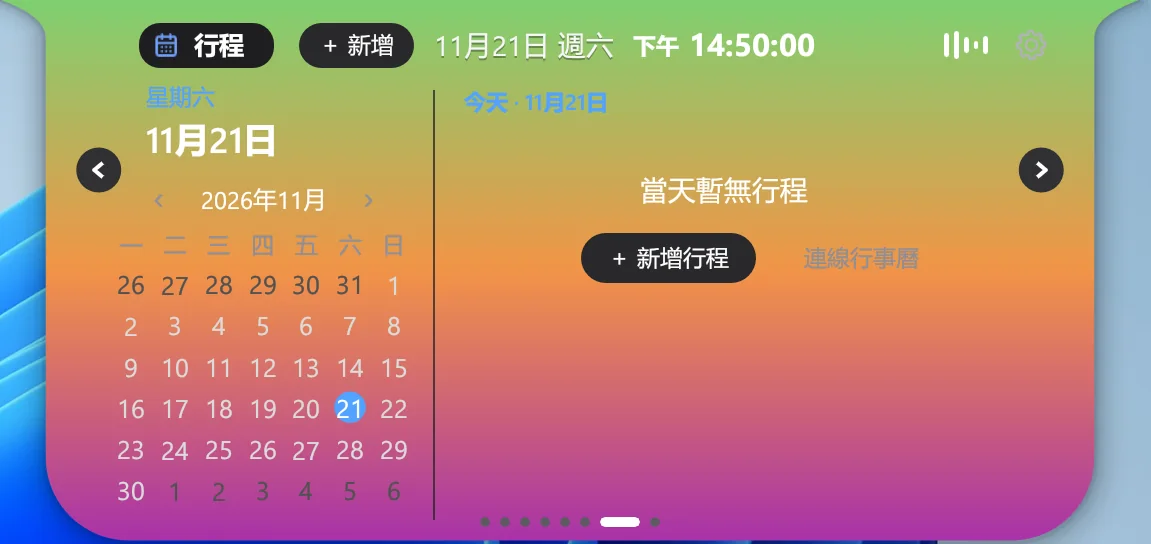
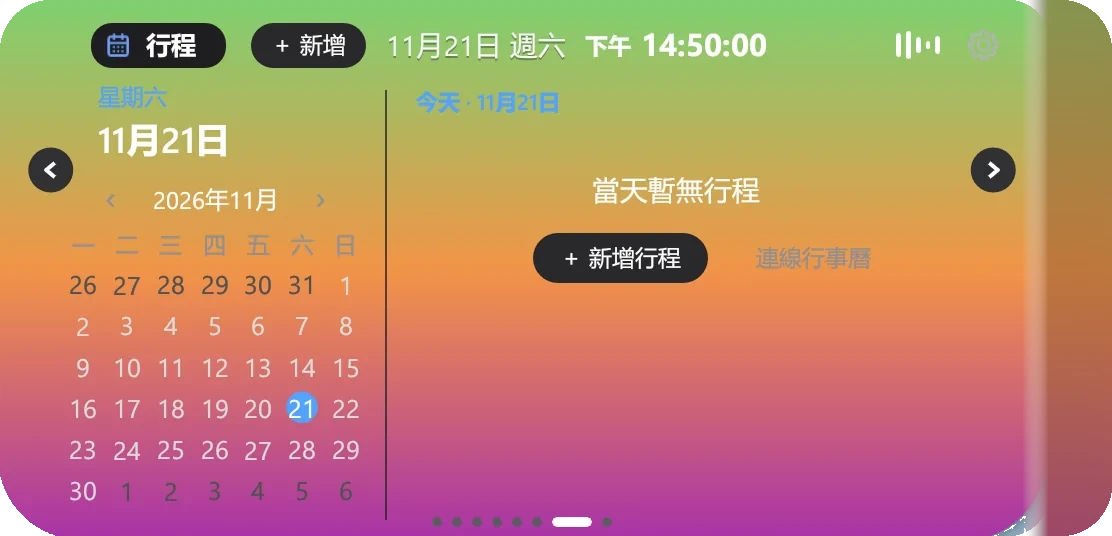
fix: 展示圖通知壓上畫面並清桌布；瀏覽器 YouTube 上島

diff --git a/docs/index.html b/docs/index.html
@@ -259,10 +259,7 @@ section{scroll-margin-top:104px}
 .visual-cap{margin-top:18px;font-size:10.5px;letter-spacing:.1em;color:#999ca6;text-align:right}
 
 /* ===== 展開畫面幻燈片 ===== */
-.island-showcase{
-  margin-top:52px;display:grid;grid-template-columns:minmax(0,1fr) 92px;
-  gap:22px;align-items:center;
-}
+.island-showcase{margin-top:52px}
 .island-stage{
   position:relative;min-width:0;padding:16px 14px;border-radius:30px;
   background:linear-gradient(180deg,rgba(12,20,34,.92),rgba(7,11,18,.96));
@@ -277,8 +274,9 @@ section{scroll-margin-top:104px}
 }
 .island-viewport{position:relative;overflow:hidden;border-radius:20px;background:#05080e;z-index:1}
 .island-track{display:flex;transition:transform .52s cubic-bezier(.22,.61,.36,1)}
-.island-slide{position:relative;flex:0 0 100%;min-width:100%;height:440px;margin:0}
-.island-slide img{position:absolute;inset:0;width:100%;height:100%;object-fit:contain;border-radius:18px;display:block;user-select:none;-webkit-user-drag:none}
+.island-slide{position:relative;flex:0 0 100%;min-width:100%;height:440px;margin:0;display:flex;align-items:center;justify-content:center}
+.island-frame{position:relative;width:min(100%,calc(440px * var(--ar)));aspect-ratio:var(--ar);max-height:100%}
+.island-frame>img{width:100%;height:100%;object-fit:contain;border-radius:18px;display:block;user-select:none;-webkit-user-drag:none}
 .island-stage:focus-visible{outline:2px solid var(--accent);outline-offset:3px}
 .island-dots{position:relative;z-index:2;display:flex;justify-content:center;gap:7px;margin-top:12px;margin-bottom:14px}
 .island-dots button{
@@ -286,17 +284,29 @@ section{scroll-margin-top:104px}
   background:rgba(185,203,228,.28);transition:width .25s,background .25s;
 }
 .island-dots button[aria-current="true"]{width:24px;border-radius:99px;background:var(--accent)}
-.island-rail{display:flex;flex-direction:column;gap:13px;align-items:center;justify-content:center}
-.rail-item{position:relative;width:48px;height:48px;border-radius:50%;display:grid;place-items:center}
-.rail-item>img{width:48px;height:48px;border-radius:50%;object-fit:cover;display:block;box-shadow:0 8px 20px -10px rgba(0,0,0,.8)}
-.rail-item svg{width:48px;height:48px;border-radius:50%;display:block}
-.rail-badge{
-  position:absolute;right:-6px;top:-6px;min-width:20px;height:20px;padding:0 5px;
-  border-radius:99px;background:#ff3b30;color:#fff;border:1.5px solid #f4f7fb;
-  font:800 10px/17px "Noto Sans TC",system-ui,sans-serif;text-align:center;
+.slide-rail{
+  position:absolute;z-index:3;right:clamp(6px,.8vw,8px);top:50%;
+  transform:translateY(-50%);display:flex;flex-direction:column;
+  gap:clamp(6px,1vw,13px);pointer-events:none;
+}
+.slide-rail .rail-item{
+  position:relative;width:clamp(18px,4.8vw,40px);height:clamp(18px,4.8vw,40px);
+  border-radius:50%;display:grid;place-items:center;flex:none;
+}
+.slide-rail .rail-item>img,.slide-rail .rail-item>svg{
+  width:100%;height:100%;border-radius:50%;object-fit:cover;display:block;
+  box-shadow:0 8px 20px -10px rgba(0,0,0,.8);
+}
+.slide-rail .rail-bell{background:linear-gradient(135deg,#ff7a59,#ef3b46);box-shadow:0 8px 20px -10px rgba(0,0,0,.8)}
+.slide-rail .rail-bell svg{fill:#fff;background:none;box-shadow:none}
+.slide-rail .rail-badge{
+  position:absolute;right:-4px;top:-4px;min-width:clamp(14px,1.9vw,18px);height:clamp(14px,1.9vw,18px);
+  padding:0 4px;border-radius:99px;background:#ff3b30;color:#fff;border:1.5px solid #f4f7fb;
+  font:800 clamp(7px,1vw,9px)/1 "Noto Sans TC",system-ui,sans-serif;
+  display:grid;place-items:center;
   box-shadow:0 3px 8px rgba(255,59,48,.35);
 }
-.rail-item.pop{animation:railPop .5s both;animation-delay:calc(var(--i) * 55ms)}
+.slide-rail .rail-item.pop{animation:railPop .5s both;animation-delay:calc(var(--i) * 55ms)}
 @keyframes railPop{
   0%{transform:scale(.72) translateY(7px);opacity:0}
   62%{transform:scale(1.08) translateY(0);opacity:1}
@@ -428,13 +438,11 @@ footer{margin-top:112px;padding:44px 0 64px;border-top:1px solid rgba(30,32,38,.
   .interface{padding-top:88px}
   .visual-mini{position:relative;box-shadow:var(--shadow-soft);transform:none;width:auto}
   .interface-visual{padding-bottom:0}
-  .island-showcase{grid-template-columns:1fr;margin-top:32px;gap:14px}
+  .island-showcase{margin-top:32px}
   .island-stage{padding:11px 9px;border-radius:22px}
   .island-slide{height:204px}
+  .island-frame>img{border-radius:14px}
   .island-dots{margin-top:9px}
-  .island-rail{flex-direction:row;gap:10px}
-  .rail-item,.rail-item>img,.rail-item svg{width:40px;height:40px}
-  .rail-badge{right:-4px;top:-4px;min-width:18px;height:18px;font-size:9px;line-height:15px}
   .mini-row{display:grid;grid-template-columns:minmax(0,1fr) minmax(0,1fr);gap:9px;margin-top:9px;align-items:start}
   .visual-mini{left:auto;right:auto;top:auto;bottom:auto;width:auto;min-width:0}
   .visual-mini img{width:100%;height:auto}
@@ -782,14 +790,88 @@ footer{border-top-color:rgba(125,211,252,.12)}
       <div class="island-stage" id="islandStage" tabindex="0" role="region" aria-roledescription="carousel" aria-label="鬼島展開畫面，左右滑動切換">
         <div class="island-viewport">
           <div class="island-track" id="islandTrack">
-            <figure class="island-slide" data-counts="50,32,18,10"><img src="images/showcase/island-weather.webp" alt="鬼島展開天氣：台北 19 度、體感、濕度、風速與七日預報" loading="eager" decoding="async"></figure>
-            <figure class="island-slide" data-counts="42,28,16,12"><img src="images/showcase/island-music.webp" alt="鬼島展開音樂：GIRL LIKE ME、播放進度與原文譯文歌詞" loading="eager" decoding="async"></figure>
-            <figure class="island-slide" data-counts="38,25,14,10"><img src="images/showcase/island-lyrics.webp" alt="鬼島島上歌詞：單行原文與右側譯文" loading="eager" decoding="async"></figure>
-            <figure class="island-slide" data-counts="35,22,13,11"><img src="images/showcase/island-focus.webp" alt="鬼島番茄專注：05:00 休息、專注與休息按鈕" loading="eager" decoding="async"></figure>
-            <figure class="island-slide" data-counts="48,30,17,10"><img src="images/showcase/island-clipboard.webp" alt="鬼島置物架與剪貼簿：複製的文字會出現在這裡" loading="eager" decoding="async"></figure>
-            <figure class="island-slide" data-counts="40,26,15,12"><img src="images/showcase/island-todo.webp" alt="鬼島待辦清單：0/0 已完成與今天還沒有安排" loading="eager" decoding="async"></figure>
-            <figure class="island-slide" data-counts="44,29,16,13"><img src="images/showcase/island-calendar.webp" alt="鬼島行程：2026 年 11 月月曆與當天暫無行程" loading="eager" decoding="async"></figure>
-            <figure class="island-slide" data-counts="30,22,13,11"><img src="images/showcase/island-games.webp" alt="鬼島遊戲庫：Riot Client、英雄聯盟、聯盟戰棋與 VALORANT 捷徑，以及 Steam 已安裝遊戲" loading="eager" decoding="async"></figure>
+            <figure class="island-slide" data-counts="50,32,18,10">
+              <div class="island-frame" style="--ar:1.9354">
+                <img src="images/showcase/island-weather.webp" alt="鬼島展開天氣：台北 19 度、體感、濕度、風速與七日預報" loading="eager" decoding="async">
+                <div class="slide-rail" aria-hidden="true">
+                  <div class="rail-item" style="--i:0"><img src="images/showcase/notif-gmail.png" alt=""><span class="rail-badge">50</span></div>
+                  <div class="rail-item" style="--i:1"><img src="images/showcase/notif-line.png" alt=""><span class="rail-badge">32</span></div>
+                  <div class="rail-item" style="--i:2"><img src="images/showcase/notif-phone.png" alt=""><span class="rail-badge">18</span></div>
+                  <div class="rail-item rail-bell" style="--i:3"><svg viewBox="0 0 48 48"><path d="M24 12c-5 0-8.2 3.8-8.2 9v5.2L13 31.5h22l-2.8-5.3V21c0-5.2-3.2-9-8.2-9Zm0 23c2.2 0 3.8-1.4 4.2-3.5h-8.4c.4 2.1 2 3.5 4.2 3.5Z"/></svg><span class="rail-badge">10</span></div>
+                </div>
+              </div>
+            </figure>
+            <figure class="island-slide" data-counts="42,28,16,12">
+              <div class="island-frame" style="--ar:3.2647">
+                <img src="images/showcase/island-music.webp" alt="鬼島展開音樂：GIRL LIKE ME、播放進度與原文譯文歌詞" loading="eager" decoding="async">
+                <div class="slide-rail" aria-hidden="true">
+                  <div class="rail-item" style="--i:0"><img src="images/showcase/notif-gmail.png" alt=""><span class="rail-badge">42</span></div>
+                  <div class="rail-item" style="--i:1"><img src="images/showcase/notif-line.png" alt=""><span class="rail-badge">28</span></div>
+                  <div class="rail-item" style="--i:2"><img src="images/showcase/notif-phone.png" alt=""><span class="rail-badge">16</span></div>
+                  <div class="rail-item rail-bell" style="--i:3"><svg viewBox="0 0 48 48"><path d="M24 12c-5 0-8.2 3.8-8.2 9v5.2L13 31.5h22l-2.8-5.3V21c0-5.2-3.2-9-8.2-9Zm0 23c2.2 0 3.8-1.4 4.2-3.5h-8.4c.4 2.1 2 3.5 4.2 3.5Z"/></svg><span class="rail-badge">12</span></div>
+                </div>
+              </div>
+            </figure>
+            <figure class="island-slide" data-counts="38,25,14,10">
+              <div class="island-frame" style="--ar:13.7941">
+                <img src="images/showcase/island-lyrics.webp" alt="鬼島島上歌詞：單行原文與右側譯文" loading="eager" decoding="async">
+              </div>
+            </figure>
+            <figure class="island-slide" data-counts="35,22,13,11">
+              <div class="island-frame" style="--ar:3.2684">
+                <img src="images/showcase/island-focus.webp" alt="鬼島番茄專注：05:00 休息、專注與休息按鈕" loading="eager" decoding="async">
+                <div class="slide-rail" aria-hidden="true">
+                  <div class="rail-item" style="--i:0"><img src="images/showcase/notif-gmail.png" alt=""><span class="rail-badge">35</span></div>
+                  <div class="rail-item" style="--i:1"><img src="images/showcase/notif-line.png" alt=""><span class="rail-badge">22</span></div>
+                  <div class="rail-item" style="--i:2"><img src="images/showcase/notif-phone.png" alt=""><span class="rail-badge">13</span></div>
+                  <div class="rail-item rail-bell" style="--i:3"><svg viewBox="0 0 48 48"><path d="M24 12c-5 0-8.2 3.8-8.2 9v5.2L13 31.5h22l-2.8-5.3V21c0-5.2-3.2-9-8.2-9Zm0 23c2.2 0 3.8-1.4 4.2-3.5h-8.4c.4 2.1 2 3.5 4.2 3.5Z"/></svg><span class="rail-badge">11</span></div>
+                </div>
+              </div>
+            </figure>
+            <figure class="island-slide" data-counts="48,30,17,10">
+              <div class="island-frame" style="--ar:3.2274">
+                <img src="images/showcase/island-clipboard.webp" alt="鬼島置物架與剪貼簿：複製的文字會出現在這裡" loading="eager" decoding="async">
+                <div class="slide-rail" aria-hidden="true">
+                  <div class="rail-item" style="--i:0"><img src="images/showcase/notif-gmail.png" alt=""><span class="rail-badge">48</span></div>
+                  <div class="rail-item" style="--i:1"><img src="images/showcase/notif-line.png" alt=""><span class="rail-badge">30</span></div>
+                  <div class="rail-item" style="--i:2"><img src="images/showcase/notif-phone.png" alt=""><span class="rail-badge">17</span></div>
+                  <div class="rail-item rail-bell" style="--i:3"><svg viewBox="0 0 48 48"><path d="M24 12c-5 0-8.2 3.8-8.2 9v5.2L13 31.5h22l-2.8-5.3V21c0-5.2-3.2-9-8.2-9Zm0 23c2.2 0 3.8-1.4 4.2-3.5h-8.4c.4 2.1 2 3.5 4.2 3.5Z"/></svg><span class="rail-badge">10</span></div>
+                </div>
+              </div>
+            </figure>
+            <figure class="island-slide" data-counts="40,26,15,12">
+              <div class="island-frame" style="--ar:3.2116">
+                <img src="images/showcase/island-todo.webp" alt="鬼島待辦清單：0/0 已完成與今天還沒有安排" loading="eager" decoding="async">
+                <div class="slide-rail" aria-hidden="true">
+                  <div class="rail-item" style="--i:0"><img src="images/showcase/notif-gmail.png" alt=""><span class="rail-badge">40</span></div>
+                  <div class="rail-item" style="--i:1"><img src="images/showcase/notif-line.png" alt=""><span class="rail-badge">26</span></div>
+                  <div class="rail-item" style="--i:2"><img src="images/showcase/notif-phone.png" alt=""><span class="rail-badge">15</span></div>
+                  <div class="rail-item rail-bell" style="--i:3"><svg viewBox="0 0 48 48"><path d="M24 12c-5 0-8.2 3.8-8.2 9v5.2L13 31.5h22l-2.8-5.3V21c0-5.2-3.2-9-8.2-9Zm0 23c2.2 0 3.8-1.4 4.2-3.5h-8.4c.4 2.1 2 3.5 4.2 3.5Z"/></svg><span class="rail-badge">12</span></div>
+                </div>
+              </div>
+            </figure>
+            <figure class="island-slide" data-counts="44,29,16,13">
+              <div class="island-frame" style="--ar:2.0746">
+                <img src="images/showcase/island-calendar.webp" alt="鬼島行程：2026 年 11 月月曆與當天暫無行程" loading="eager" decoding="async">
+                <div class="slide-rail" aria-hidden="true">
+                  <div class="rail-item" style="--i:0"><img src="images/showcase/notif-gmail.png" alt=""><span class="rail-badge">44</span></div>
+                  <div class="rail-item" style="--i:1"><img src="images/showcase/notif-line.png" alt=""><span class="rail-badge">29</span></div>
+                  <div class="rail-item" style="--i:2"><img src="images/showcase/notif-phone.png" alt=""><span class="rail-badge">16</span></div>
+                  <div class="rail-item rail-bell" style="--i:3"><svg viewBox="0 0 48 48"><path d="M24 12c-5 0-8.2 3.8-8.2 9v5.2L13 31.5h22l-2.8-5.3V21c0-5.2-3.2-9-8.2-9Zm0 23c2.2 0 3.8-1.4 4.2-3.5h-8.4c.4 2.1 2 3.5 4.2 3.5Z"/></svg><span class="rail-badge">13</span></div>
+                </div>
+              </div>
+            </figure>
+            <figure class="island-slide" data-counts="30,22,13,11">
+              <div class="island-frame" style="--ar:2.1422">
+                <img src="images/showcase/island-games.webp" alt="鬼島遊戲庫：Riot Client、英雄聯盟、聯盟戰棋與 VALORANT 捷徑，以及 Steam 已安裝遊戲" loading="eager" decoding="async">
+                <div class="slide-rail" aria-hidden="true">
+                  <div class="rail-item" style="--i:0"><img src="images/showcase/notif-gmail.png" alt=""><span class="rail-badge">30</span></div>
+                  <div class="rail-item" style="--i:1"><img src="images/showcase/notif-line.png" alt=""><span class="rail-badge">22</span></div>
+                  <div class="rail-item" style="--i:2"><img src="images/showcase/notif-phone.png" alt=""><span class="rail-badge">13</span></div>
+                  <div class="rail-item rail-bell" style="--i:3"><svg viewBox="0 0 48 48"><path d="M24 12c-5 0-8.2 3.8-8.2 9v5.2L13 31.5h22l-2.8-5.3V21c0-5.2-3.2-9-8.2-9Zm0 23c2.2 0 3.8-1.4 4.2-3.5h-8.4c.4 2.1 2 3.5 4.2 3.5Z"/></svg><span class="rail-badge">11</span></div>
+                </div>
+              </div>
+            </figure>
           </div>
         </div>
         <div class="island-dots" id="islandDots" role="tablist" aria-label="選擇展開畫面">
@@ -803,17 +885,8 @@ footer{border-top-color:rgba(125,211,252,.12)}
           <button type="button" aria-label="遊戲庫"></button>
         </div>
       </div>
-      <div class="island-rail" id="islandRail" aria-label="展開時旁邊的未讀通知範例">
-        <div class="rail-item" style="--i:0"><img src="images/showcase/notif-gmail.png" alt="Gmail"><span class="rail-badge">50</span></div>
-        <div class="rail-item" style="--i:1"><img src="images/showcase/notif-line.png" alt="LINE"><span class="rail-badge">32</span></div>
-        <div class="rail-item" style="--i:2"><img src="images/showcase/notif-phone.png" alt="手機連結"><span class="rail-badge">18</span></div>
-        <div class="rail-item" style="--i:3">
-          <svg viewBox="0 0 48 48" aria-hidden="true"><defs><linearGradient id="bellBg" x1="0" y1="0" x2="1" y2="1"><stop stop-color="#ff7a59"/><stop offset="1" stop-color="#ef3b46"/></linearGradient></defs><circle cx="24" cy="24" r="24" fill="url(#bellBg)"/><path d="M24 12c-5 0-8.2 3.8-8.2 9v5.2L13 31.5h22l-2.8-5.3V21c0-5.2-3.2-9-8.2-9Zm0 23c2.2 0 3.8-1.4 4.2-3.5h-8.4c.4 2.1 2 3.5 4.2 3.5Z" fill="#fff"/></svg>
-          <span class="rail-badge">10</span>
-        </div>
-      </div>
     </div>
-    <p class="island-note">八種展開模樣可左右滑動 · 旁邊同步亮起 Gmail、LINE、手機連結與系統通知未讀</p>
+    <p class="island-note">八種展開模樣可左右滑動 · 右側通知會跟著畫面同步亮起</p>
   </div>
 </section>
 
@@ -964,15 +1037,16 @@ footer{border-top-color:rgba(125,211,252,.12)}
     var track = document.getElementById('islandTrack');
     var dots = Array.prototype.slice.call(document.querySelectorAll('#islandDots button'));
     var slides = Array.prototype.slice.call(track.querySelectorAll('.island-slide'));
-    var railItems = Array.prototype.slice.call(document.querySelectorAll('#islandRail .rail-item'));
     var index = 0, startX = null, startY = null, dragX = 0, pointerId = null;
 
     function countsFor(i){
       return (slides[i].dataset.counts || '50,32,18,10').split(',').map(function(n){ return n.trim(); });
     }
     function applyRail(i, animate){
+      var rail = slides[i].querySelector('.slide-rail');
+      if(!rail) return;
       var counts = countsFor(i);
-      railItems.forEach(function(item, n){
+      Array.prototype.slice.call(rail.querySelectorAll('.rail-item')).forEach(function(item, n){
         var badge = item.querySelector('.rail-badge');
         if(badge) badge.textContent = counts[n] || '10';
         item.classList.remove('pop');
@@ -1101,3 +1175,4 @@ footer{border-top-color:rgba(125,211,252,.12)}
 </script>
 </body>
 </html>
+

diff --git a/docs/updates.html b/docs/updates.html
@@ -66,6 +66,8 @@ footer{text-align:center;color:var(--dim);font-size:11.5px;letter-spacing:.1em;m
     <div class="sec-title"><span class="bar"></span><h2>目前狀態</h2><span class="line"></span></div>
     <div class="hero-shot"><img src="images/showcase/update.webp" alt="鬼島發現新版本時的更新視窗，列出本次更新重點與立即更新按鈕" loading="lazy"></div>
     <div class="grid">
+      <div class="card"><span class="badge">官網</span><h3>介面展示圖的通知圖示改壓在畫面上，主圖桌布背景完全移除</h3><p>「介面」輪播的右側通知列不再浮在圖片外的空白處，改成貼著每張島體右緣、直接壓在畫面上；原本截圖左右與底部的 macOS 藍色桌布條已裁掉，圓角外側的桌布殘留也一併清掉，只保留島體本身的漸層與內容。</p></div>
+      <div class="card"><span class="badge">音樂</span><h3>Chrome、Edge、Firefox 播 YouTube 會自動上島，瀏覽器縮小也看得到</h3><p>瀏覽器播放 YouTube／YouTube Music 時，直接從 Windows 右下角播放卡讀取歌名、歌手、封面與進度，不需要安裝擴充功能。YouTube 分頁即使被標成影片、沒有專輯欄位，也會當成音樂顯示；把瀏覽器縮小或切到其他視窗，播放卡的工作階段仍在，島上持續顯示目前歌曲。</p></div>
       <div class="card"><span class="badge">官網</span><h3>首頁島體時間與氣溫自動更新，番茄改成 25 分鐘倒數</h3><p>首屏那條島不再固定寫著 14:19:58 與 19°。時間改用瀏覽器本機時鐘，每秒跳一次；氣溫從 Open-Meteo 抓目前溫度並每 10 分鐘重抓，抓不到才保留原數字。番茄專注顯示 25:00 並依實際秒數倒數，歸零後重新開始，畫面不用手動更新。</p></div>
       <div class="card"><span class="badge">安裝</span><h3>安裝包只剩啟動器，完成後自動下載主程式</h3><p>系統「新增／移除」裡的安裝包不再塞入完整 22MB 主程式，只剩約 1.2MB 的啟動器與卸載資訊。按下完成後會自動跳出品牌下載視窗，查詢 GitHub 最新正式版、顯示下載進度與大小，驗證 SHA-256 後才解壓到安裝資料夾並開啟鬼島。日常從捷徑開啟時，主程式已存在就直接啟動，不會每次重新下載；主程式仍沿用原本的應用內自動更新。</p></div>
       <div class="card"><span class="badge">吉祥物</span><h3>原始主題恢復原作者石虎，漸層主題保留台灣島虎</h3><p>經典、奶油、毛玻璃與懸浮雲改回原作者的石虎點陣影格；只有懸浮漸層使用台灣版單線條島虎。原本使用者資料夾只剩說明文字，才會出現「吉祥物不見了」；現在內建影格會自動接手，不必把圖放回資料夾。線條會依實際玻璃與桌面底色選深墨或白線，白線遇到半透明亮底再加一層極淡深色底。</p></div>

diff --git a/hist/更新總覽.html b/hist/更新總覽.html
@@ -63,6 +63,8 @@ footer{text-align:center;color:var(--dim);font-size:11.5px;letter-spacing:.1em;m
   <section class="section">
     <div class="sec-title"><span class="bar"></span><h2>目前狀態</h2><span class="line"></span></div>
     <div class="grid">
+      <div class="card"><span class="badge">官網</span><h3>介面展示圖的通知圖示改壓在畫面上，主圖桌布背景完全移除</h3><p>「介面」輪播的右側通知列不再浮在圖片外的空白處，改成貼著每張島體右緣、直接壓在畫面上；原本截圖左右與底部的 macOS 藍色桌布條已裁掉，圓角外側的桌布殘留也一併清掉，只保留島體本身的漸層與內容。</p></div>
+      <div class="card"><span class="badge">音樂</span><h3>Chrome、Edge、Firefox 播 YouTube 會自動上島，瀏覽器縮小也看得到</h3><p>瀏覽器播放 YouTube／YouTube Music 時，直接從 Windows 右下角播放卡讀取歌名、歌手、封面與進度，不需要安裝擴充功能。YouTube 分頁即使被標成影片、沒有專輯欄位，也會當成音樂顯示；把瀏覽器縮小或切到其他視窗，播放卡的工作階段仍在，島上持續顯示目前歌曲。</p></div>
       <div class="card"><span class="badge">官網</span><h3>首頁島體時間與氣溫自動更新，番茄改成 25 分鐘倒數</h3><p>首屏那條島不再固定寫著 14:19:58 與 19°。時間改用瀏覽器本機時鐘，每秒跳一次；氣溫從 Open-Meteo 抓目前溫度並每 10 分鐘重抓，抓不到才保留原數字。番茄專注顯示 25:00 並依實際秒數倒數，歸零後重新開始，畫面不用手動更新。</p></div>
       <div class="card"><span class="badge">安裝</span><h3>安裝包只剩啟動器，完成後自動下載主程式</h3><p>系統「新增／移除」裡的安裝包不再塞入完整 22MB 主程式，只剩約 1.2MB 的啟動器與卸載資訊。按下完成後會自動跳出品牌下載視窗，查詢 GitHub 最新正式版、顯示下載進度與大小，驗證 SHA-256 後才解壓到安裝資料夾並開啟鬼島。日常從捷徑開啟時，主程式已存在就直接啟動，不會每次重新下載；主程式仍沿用原本的應用內自動更新。</p></div>
       <div class="card"><span class="badge">吉祥物</span><h3>原始主題恢復原作者石虎，漸層主題保留台灣島虎</h3><p>經典、奶油、毛玻璃與懸浮雲改回原作者的石虎點陣影格；只有懸浮漸層使用台灣版單線條島虎。原本使用者資料夾只剩說明文字，才會出現「吉祥物不見了」；現在內建影格會自動接手，不必把圖放回資料夾。線條會依實際玻璃與桌面底色選深墨或白線，白線遇到半透明亮底再加一層極淡深色底。</p></div>

diff --git a/src/smtc.rs b/src/smtc.rs
@@ -79,9 +79,28 @@ fn is_cn_music_source(source: &str) -> bool {
         || is_qqmusic(source)
 }
 
+/// Chrome／Edge／Firefox／IE 等瀏覽器也會把分頁音訊註冊到 Windows 播放卡；
+/// 這裡只認來源，不要求使用者安裝擴充功能，也不看瀏覽器是否在前景。
+pub fn is_browser_source(source:&str)->bool{
+    let source=source.to_ascii_lowercase();
+    ["chrome","msedge","firefox","brave","opera","vivaldi","iexplore","internet explorer"]
+        .iter().any(|name|source.contains(name))
+}
+
+/// YouTube 分頁在 SMTC 常缺少專輯欄位，甚至被瀏覽器標成影片；
+/// 專輯或標題後綴是唯一穩定的辨識點。
+fn is_youtube(media:&NowPlaying)->bool{
+    let title=media.title.trim().to_ascii_lowercase();
+    let album=media.album.trim().to_ascii_lowercase();
+    album.contains("youtube") || title.ends_with(" - youtube") || title.ends_with(" - youtube music")
+}
+
 impl NowPlaying {
     pub fn kind(&self)->MediaKind {
         if self.title.trim().is_empty(){return MediaKind::Unknown;}
+        // 使用者在瀏覽器播放 YouTube／YouTube Music 時，Windows 播放卡仍會保留工作階段，
+        // 瀏覽器縮小或切到別的分頁都能讀到歌名；不能因缺少專輯或型別被標成影片就被濾掉。
+        if is_browser_source(&self.source) && is_youtube(self) {return MediaKind::Music;}
         if self.playback_type==MediaKind::Video {return MediaKind::Video;}
         // 部分浏览器把所有媒体都上报为音乐，补充识别明确的视频页面标题。
         let title=self.title.trim().to_lowercase();
@@ -1294,10 +1313,24 @@ mod tests {
     fn browser_video_authors_are_not_enough_to_identify_a_song(){
         let mut np=NowPlaying{title:"A video".into(),artist:"Video creator".into(),source:"Chrome".into(),playback_type:MediaKind::Music,..Default::default()};
         assert_eq!(np.kind(),MediaKind::Unknown);
-        np.album="YouTube".into();assert_eq!(np.kind(),MediaKind::Video);
+        np.album="YouTube".into();assert_eq!(np.kind(),MediaKind::Music,"YouTube 分頁要上島，不能當成一般影片濾掉");
         np.title="阿拉斯加海灣".into();np.artist="藍心羽".into();np.album="阿拉斯加海灣".into();
         assert_eq!(np.kind(),MediaKind::Music,"網易雲網頁版的完整歌曲後設資料仍應識別為音樂");
         np.source="Spotify.exe".into();np.album.clear();assert_eq!(np.kind(),MediaKind::Music,"音樂客戶端不強制要求專輯資訊");
+    }
+
+    #[test]
+    fn youtube_in_any_browser_is_music_even_without_album_or_when_marked_video(){
+        for source in ["chrome.exe","Google.Chrome.SxS","msedge.exe","firefox.exe","iexplore.exe","brave.exe","opera.exe"] {
+            let mut np=NowPlaying{title:"Movie - YouTube".into(),source:source.into(),playback_type:MediaKind::Music,..Default::default()};
+            assert_eq!(np.kind(),MediaKind::Music,"{source} 的 YouTube 分頁應上島");
+            np.playback_type=MediaKind::Video;
+            assert_eq!(np.kind(),MediaKind::Music,"{source} 把 YouTube 標成影片時仍要顯示");
+            np.title="Song - YouTube Music".into();np.album.clear();
+            assert_eq!(np.kind(),MediaKind::Music,"YouTube Music 缺少專輯時仍要顯示");
+            np.title="A video".into();np.album="bilibili".into();
+            assert_eq!(np.kind(),MediaKind::Video,"非 YouTube 的瀏覽器影片維持影片分類");
+        }
     }
 
     #[test]

diff --git a/src/extras.rs b/src/extras.rs
@@ -1841,6 +1841,7 @@ impl App {
                                 if setting_number(ui,"時間偏移",&mut advance,-5.0,5.0," 秒",0.1){self.settings.lyric_delay_ms=(-advance*1000.0).round()as i32;}
                                 settings_hint(ui,"歌詞和歌聲對不上時調整：正數提前，負數延後；預設提前 0.35 秒。");
                                 settings_hint(ui,"查詞為自動進行：播放器本機歌詞 → 網易雲 → QQ 音樂 → LRCLIB；找不到時按播放器上的「詞」可重試。");
+                                settings_hint(ui,"Chrome、Edge、Firefox 播 YouTube／YouTube Music 時，會從 Windows 右下角播放卡自動讀取歌名；瀏覽器縮小也持續顯示，不需要安裝擴充功能。");
                                 ui.separator();
                                 let translate=self.settings.lyrics_translate;
                                 setting_row(ui,"自動翻譯歌詞","非中文歌詞保留原文，譯文顯示在原文下方；中文歌本身就是繁體，不做翻譯",&mut self.settings.lyrics_translate);
